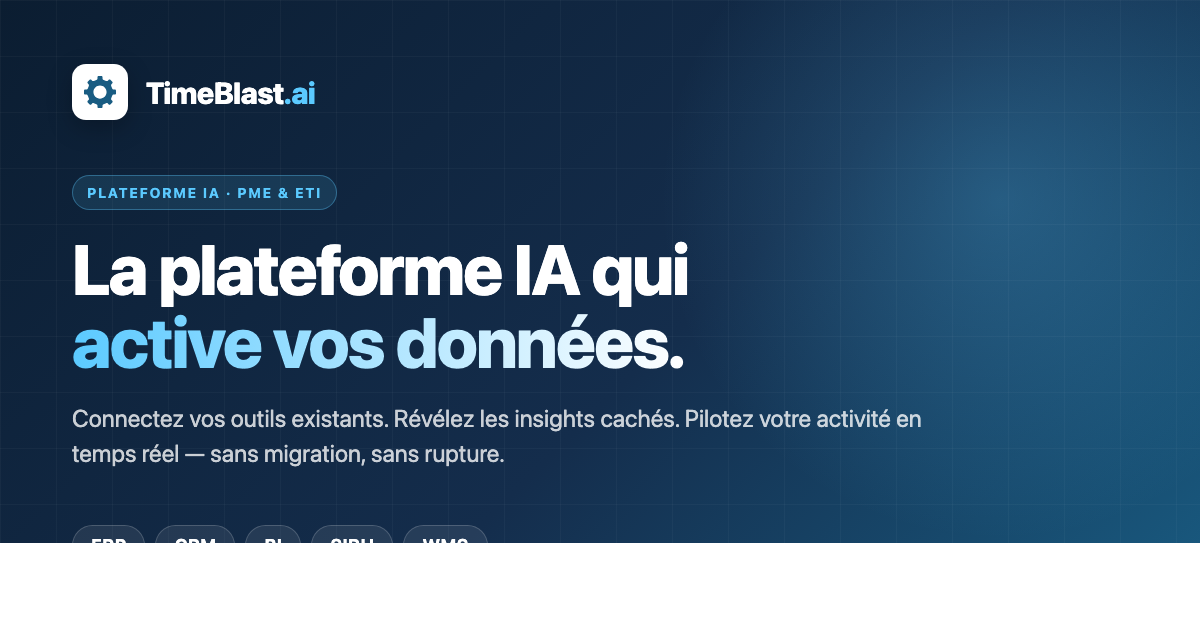
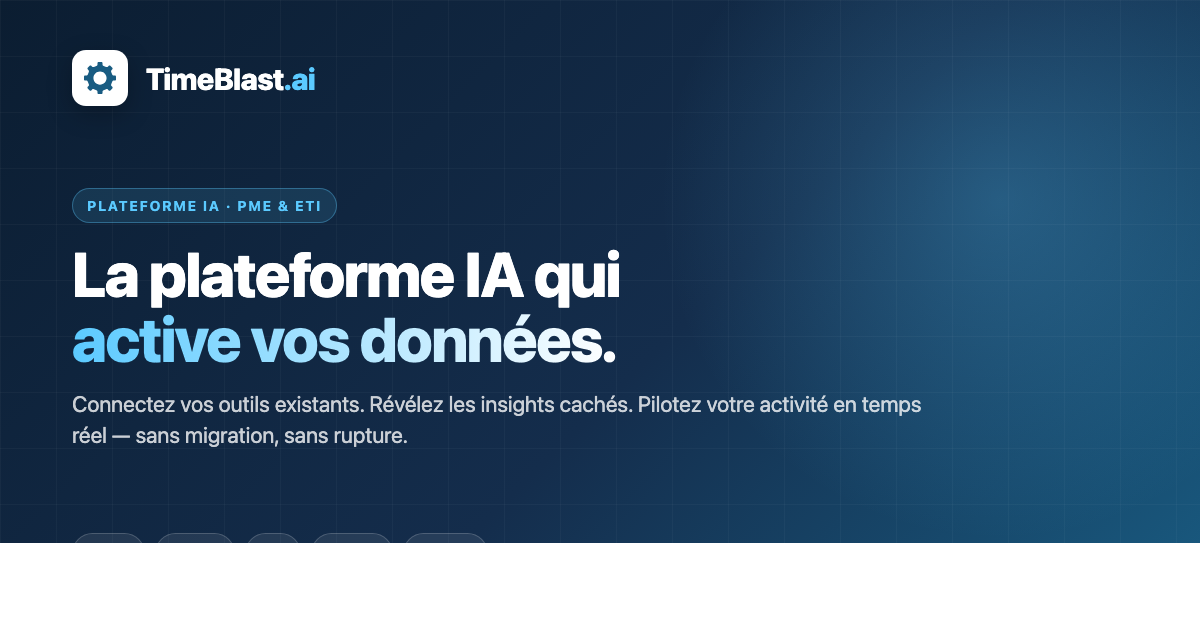
fix(seo): og-image avec tags ERP/CRM/BI/SIRH/WMS visibles
Re-render de la nouvelle og-image apres ajustement du template :
- Padding wrap reduit a 50px 72px 56px (vs 64px) pour eviter overflow
- font-size h1 62px (vs 70px), p.lead 22px (vs 24px), gap main 18px
  (vs 22px)
- Les tags du bas s'affichent maintenant entierement dans la zone
  1200x630 (avant l'image etait coupee a hauteur de la description)

diff --git a/public/og-template.html b/public/og-template.html
@@ -30,7 +30,7 @@
   .wrap {
     position: relative; z-index: 1;
     width: 100%; height: 100%;
-    padding: 64px 72px;
+    padding: 50px 72px 56px;
     display: flex; flex-direction: column; justify-content: space-between;
   }
   .top { display: flex; align-items: center; gap: 18px; }
@@ -44,7 +44,7 @@
   .brand-name { font-size: 30px; font-weight: 800; letter-spacing: -.02em; }
   .brand-dot { color: #5BCAFF; }
 
-  .main { display: flex; flex-direction: column; gap: 22px; max-width: 980px; }
+  .main { display: flex; flex-direction: column; gap: 18px; max-width: 980px; }
   .pill {
     display: inline-flex; align-items: center; gap: 8px;
     padding: 8px 14px; border-radius: 100px;
@@ -55,14 +55,14 @@
     width: fit-content;
   }
   h1 {
-    font-size: 70px; line-height: 1.05; font-weight: 800; letter-spacing: -.025em;
+    font-size: 62px; line-height: 1.05; font-weight: 800; letter-spacing: -.025em;
   }
   h1 .accent {
     background: linear-gradient(90deg, #5BCAFF, #ffffff);
     -webkit-background-clip: text; background-clip: text; color: transparent;
   }
   p.lead {
-    font-size: 24px; line-height: 1.45; color: rgba(255,255,255,.78);
+    font-size: 22px; line-height: 1.4; color: rgba(255,255,255,.78);
     max-width: 880px;
   }
 
